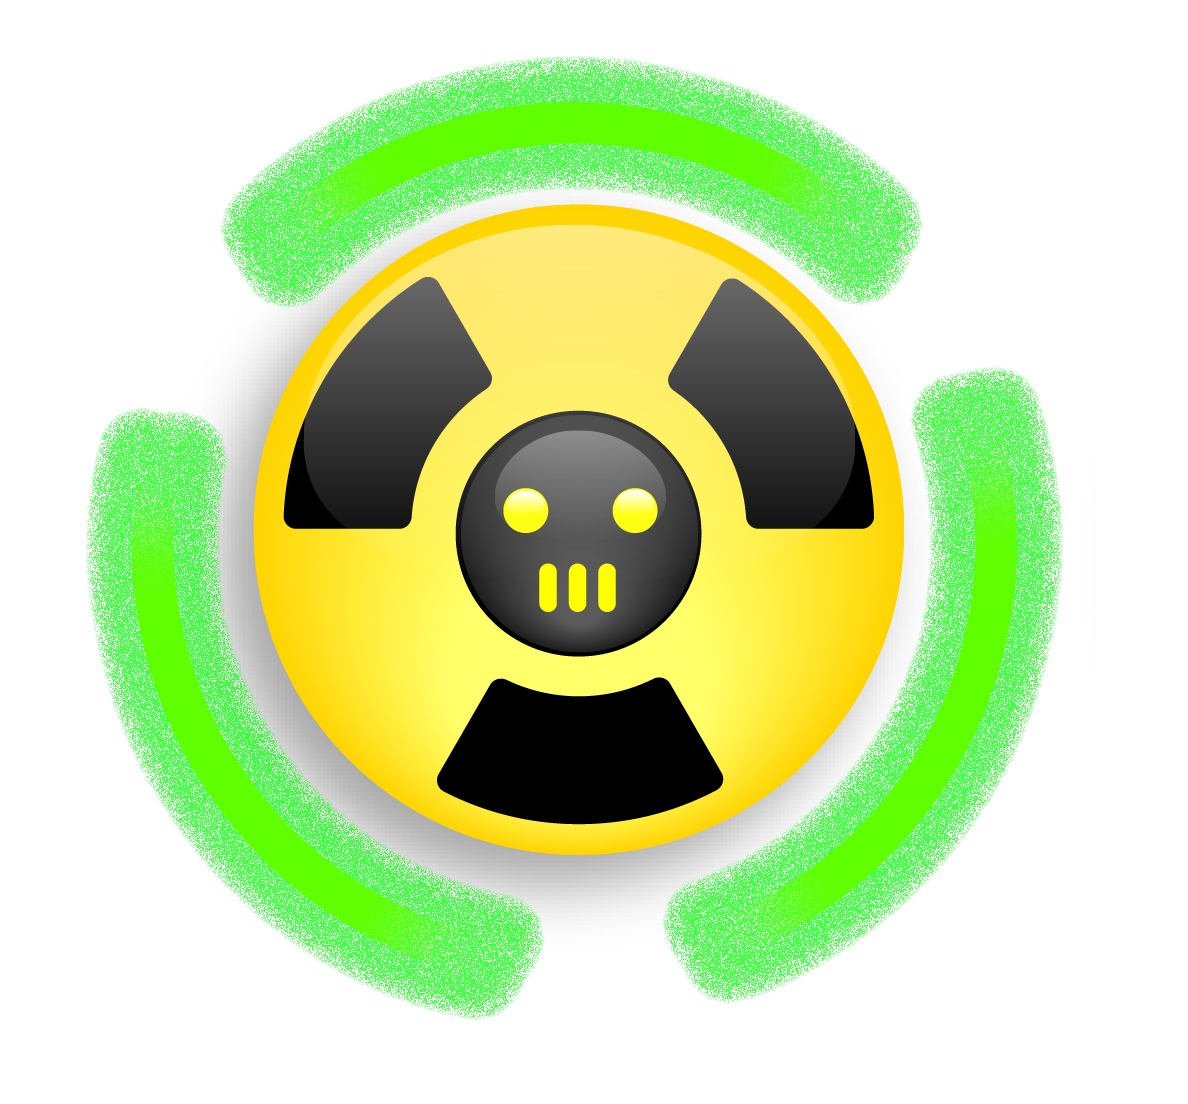
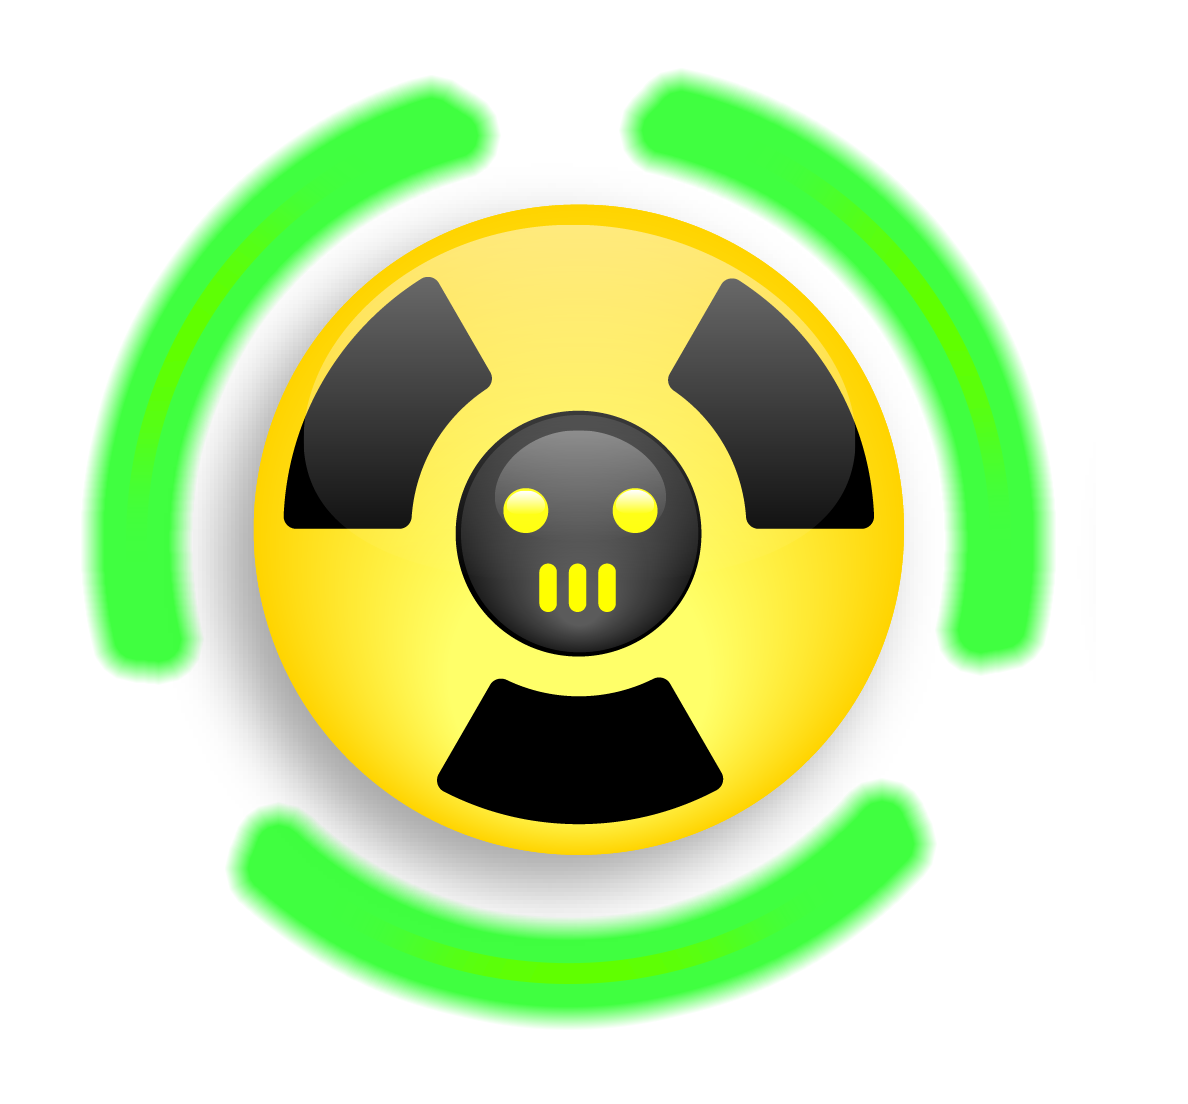
multi-level glowing super enemies

Changed region(s): [[0.0623, 0.0308, 0.9032, 0.9547]]

diff --git a/Assets/BonusLifecycle.cs b/Assets/BonusLifecycle.cs
@@ -189,6 +189,9 @@ public class BonusLifecycle : MonoBehaviour {
 				GameObject trap = (GameObject)currentTraps[i];
 				trap.GetComponent<Renderer>().enabled = false;
 				trap.GetComponent<Collider2D>().enabled = false;
+				foreach(Transform child in trap.transform){
+					Destroy (child.gameObject);
+				}
 
 
 				// play kill bonus animation
@@ -247,6 +250,8 @@ public class BonusLifecycle : MonoBehaviour {
 
 	// this is here for the tutorial
 	public void AddTrap(GameObject trap){
+		int numIntervals =  (int)Mathf.Floor(score.Score () / enemySpeedIncreaseInterval);
+		trap.GetComponent<ChasePlayer>().SetSpeedLevel(numIntervals);
 		currentTraps.Add(trap);
 	}
 

diff --git a/Assets/ChasePlayer.cs b/Assets/ChasePlayer.cs
@@ -8,6 +8,8 @@ public class ChasePlayer : MonoBehaviour {
 	public float timeToMaxSpeed = 4.0f;
 
 	public float speedUpPerLevel = 0.05f; 
+	public GameObject glow;
+	public Sprite upgradedGlow;
 
 	int speedLevel = 0;
 
@@ -25,6 +27,15 @@ public class ChasePlayer : MonoBehaviour {
 
 	public void SetSpeedLevel(int l){
 		speedLevel = l;
+		print ("speedLevel: " + speedLevel);
+		if(speedLevel < 1){
+			glow.SetActive (false);
+		} else {
+			if(speedLevel > 2){
+				glow.GetComponent<SpriteRenderer>().sprite = upgradedGlow;
+			}
+			glow.SetActive(true);
+		}
 	}
 	
 	void Update () {

diff --git a/Assets/GetHit.cs b/Assets/GetHit.cs
@@ -27,9 +27,13 @@ public class GetHit : MonoBehaviour {
 			} 
 
 			if(isTrap){
+				foreach(Transform child in transform){
+					Destroy (child.gameObject);
+				}
 				bl.ApplyPenalty(gameObject);
+
 				GetComponent<Shatter>().StartShatter(collision.gameObject.GetComponent<PushAndPull>().currentVelocity);
-				GetComponent<PlayGeigerSounds>().Mute ();
+				GetComponent<PlayGeigerSounds>().Mute();
 				return;
 			}
 

diff --git a/Assets/Spin.cs b/Assets/Spin.cs
@@ -1,0 +1,18 @@
+using UnityEngine;
+using System.Collections;
+
+public class Spin : MonoBehaviour {
+
+	public float spinSpeed = 100.0f;
+
+	// Use this for initialization
+	void Start () {
+	
+	}
+	
+	// Update is called once per frame
+	void Update () {
+
+		transform.Rotate(0,0,spinSpeed * Time.deltaTime);
+	}
+}
